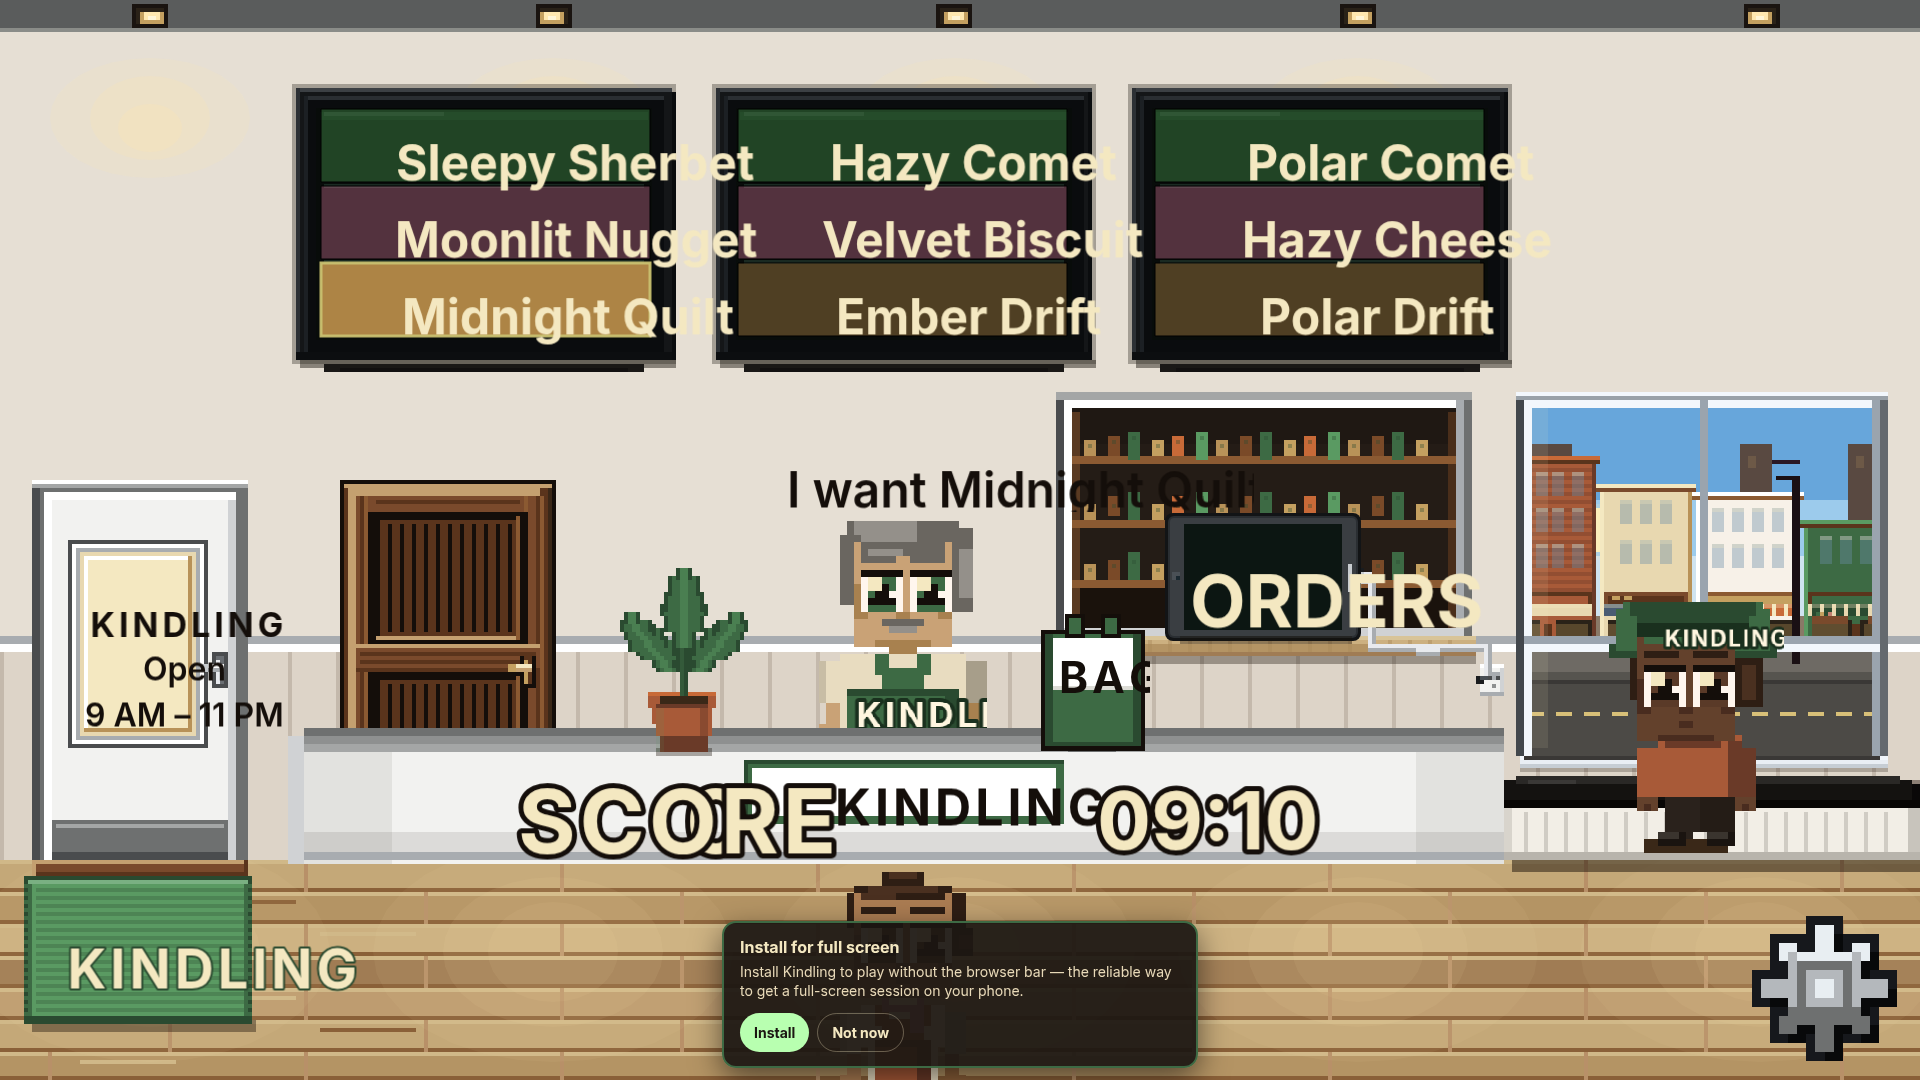
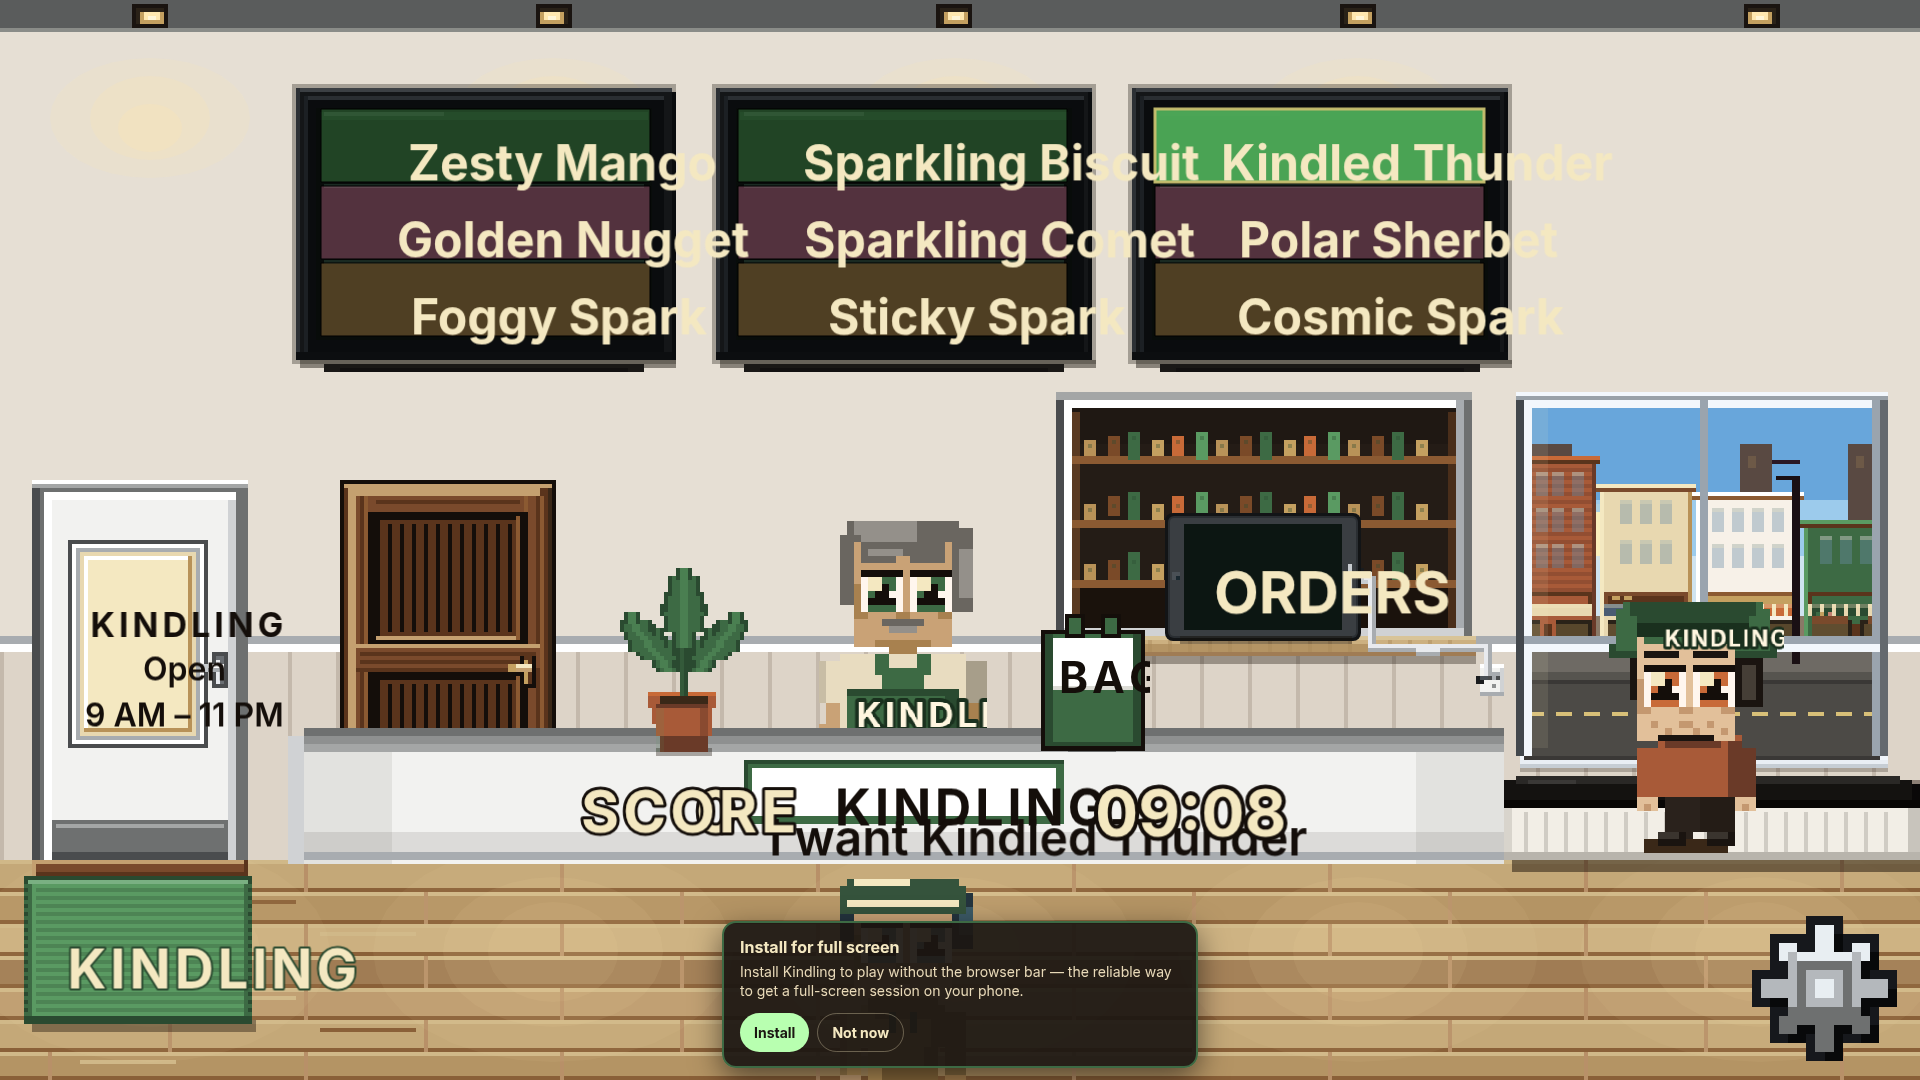
fix(ui): widen shop speech plaques and resize counter readouts
- Raise CUSTOMER_SPEECH_MAX_W to 480 and key-lead speech box to 540
- Add noWrap plus refitType on speech setText so plaques stay single-line
- Shrink HUD_SCORE_PX to 28.8 (ORDERS parity) for cleaner counter scale
- Pin ORDERS on tablet with right/up nudge to clear the BAG rack
- Update layout tests and verification captures

diff --git a/src/scenes/ShopScene.ts b/src/scenes/ShopScene.ts
@@ -88,6 +88,7 @@ import { beginChipFrame, placeChip } from "../ui/hud/placeChips";
 import { chipPriority } from "../ui/hud/slots";
 import { designHudInset, readCssSafeArea } from "../ui/viewFit";
 import { addUiText } from "../ui/text";
+import { refitType } from "../ui/typekit";
 import {
   Color,
   HUD_SCORE_PX,
@@ -117,6 +118,10 @@ const TABLET_LABEL_PX = HUD_SCORE_PX;
  * now the screen minus a hairline that keeps the glyphs off the bezel.
  */
 const TABLET_LABEL_INSET = 4;
+/** Nudge ORDERS right so clamp-fit glyphs clear the BAG rack on the tablet's left. */
+const TABLET_LABEL_X_NUDGE = 10;
+/** Lift slightly within the screen — geometric centre reads low on landscape tablets. */
+const TABLET_LABEL_Y_NUDGE = -3;
 
 /** Concurrent customers the pool covers without mid-frame allocate (4 is typical peak). */
 const CUSTOMER_VISUAL_POOL = 4;
@@ -235,7 +240,7 @@ export class ShopScene extends Phaser.Scene {
 
     const tab = tabletLayout();
     this.tabletScreen = this.add.graphics().setDepth(10);
-    this.tabletLabel = addUiText(this, TABLET.x, tab.screenTop + tab.screenH / 2, "ORDERS", {
+    this.tabletLabel = addUiText(this, 0, 0, "ORDERS", {
       size: typeRolePx("hudTitle"),
       typeRole: "hudTitle",
       color: Color.creamHex,
@@ -251,6 +256,7 @@ export class ShopScene extends Phaser.Scene {
     })
       .setOrigin(0.5)
       .setDepth(11);
+    this.pinTabletLabel(tab);
 
     this.tabletHit = this.add.rectangle(TABLET.x, TABLET.y, TABLET_W, TABLET_H, 0x000000, 0.001).setDepth(12);
     enableItemHit(this.tabletHit);
@@ -289,7 +295,8 @@ export class ShopScene extends Phaser.Scene {
       typeRole: "speech",
       align: "center",
       fontStyle: "600",
-      maxWidth: typeRoleBox(440, "speech"),
+      noWrap: true,
+      maxWidth: typeRoleBox(540, "speech"),
       maxHeight: typeRoleBox(104, "speech"),
     })
       .setOrigin(0.5, 0.5)
@@ -361,7 +368,10 @@ export class ShopScene extends Phaser.Scene {
     this.keyLeadBubble.setVisible(showKeyLeadBubble);
     if (showKeyLeadBubble) {
       const textDirty = this.keyLeadBubble.text !== callout;
-      if (textDirty) this.keyLeadBubble.setText(callout);
+      if (textDirty) {
+        this.keyLeadBubble.setText(callout);
+        refitType(this.keyLeadBubble);
+      }
       syncSignPlaque(this.keyLeadBubble);
       const lead = keyLeadSpeechPlaqueAboveHead(
         this.keyLeadBubble,
@@ -385,7 +395,10 @@ export class ShopScene extends Phaser.Scene {
     this.driverBubble.setVisible(showDriverBubble);
     if (showDriverBubble) {
       const driverTextDirty = this.driverBubble.text !== driverLine;
-      if (driverTextDirty) this.driverBubble.setText(driverLine);
+      if (driverTextDirty) {
+        this.driverBubble.setText(driverLine);
+        refitType(this.driverBubble);
+      }
       this.driverBubble.setAlpha(1);
       syncSignPlaque(this.driverBubble);
       const panelH = signPlaqueExtents(this.driverBubble).panelH;
@@ -634,6 +647,13 @@ export class ShopScene extends Phaser.Scene {
     this.pinQueueBadge(tab);
   }
 
+  /** Centre ORDERS inside the tablet screen with a slight right/up nudge for bag clearance. */
+  private pinTabletLabel(tab: ReturnType<typeof tabletLayout>): void {
+    const x = TABLET.x + TABLET_LABEL_X_NUDGE;
+    const y = tab.screenTop + (tab.screenH - tab.homeH) / 2 + TABLET_LABEL_Y_NUDGE;
+    this.tabletLabel.setPosition(x, y);
+  }
+
   /** Top-right of the ORDERS tablet bezel — re-pin after every sync so plaque layout cannot drift. */
   private pinQueueBadge(tab: ReturnType<typeof tabletLayout>, badgeInset = 6): void {
     syncSignPlaque(this.queueBadge);
@@ -779,6 +799,7 @@ export class ShopScene extends Phaser.Scene {
   /** Boot warm under the loading gate — first walk-in must not raster + plaque on one frame. */
   private warmCustomerSpeech(visual: CustomerVisual): void {
     visual.bubble.setText("Welcome in!");
+    refitType(visual.bubble);
     visual.feedback.setText("Thanks!");
     visual.bubble.setVisible(true);
     visual.feedback.setVisible(true);
@@ -806,6 +827,7 @@ export class ShopScene extends Phaser.Scene {
       typeRole: "speech",
       align: "center",
       fontStyle: "600",
+      noWrap: true,
       maxWidth: CUSTOMER_SPEECH_MAX_W,
       maxHeight: CUSTOMER_SPEECH_H,
     })
@@ -883,7 +905,10 @@ export class ShopScene extends Phaser.Scene {
       if (!customer.bubble) continue;
       let visual = this.customers.get(customer.orderId);
       if (!visual) visual = this.acquireCustomerVisual(customer.orderId, customer.look);
-      if (visual.bubble.text !== customer.bubble) visual.bubble.setText(customer.bubble);
+      if (visual.bubble.text !== customer.bubble) {
+        visual.bubble.setText(customer.bubble);
+        refitType(visual.bubble);
+      }
       syncSignPlaque(visual.bubble);
     }
 
@@ -934,7 +959,10 @@ export class ShopScene extends Phaser.Scene {
       const layout = this.customerLayoutById.get(customer.orderId);
       if (customer.bubble && settled) {
         bubble.setAlpha(1);
-        if (bubble.text !== customer.bubble) bubble.setText(customer.bubble);
+        if (bubble.text !== customer.bubble) {
+          bubble.setText(customer.bubble);
+          refitType(bubble);
+        }
         const pin = layout
           ? { x: layout.x, y: layout.y }
           : speechPlaqueAboveHead(bubble, sprite.x, standingPersonHeadTop(sprite));

diff --git a/src/scenes/shopSpeech.test.ts b/src/scenes/shopSpeech.test.ts
@@ -47,6 +47,9 @@ describe("speech stays off the models it belongs to", () => {
     expect(src, "key-lead bubble centered above head band").toMatch(
       /keyLeadBubble = addSignText[\s\S]*?\.setOrigin\(0\.5, 0\.5\)/,
     );
+    expect(src, "key-lead holding copy stays single-line").toMatch(
+      /keyLeadBubble = addSignText[\s\S]*noWrap: true[\s\S]*typeRoleBox\(540, "speech"\)/,
+    );
     expect(src, "driver bubble centered above head").toMatch(
       /driverBubble = addSignText[\s\S]*?\.setOrigin\(0\.5, 0\.5\)/,
     );
@@ -55,11 +58,11 @@ describe("speech stays off the models it belongs to", () => {
 
   it("dirty-guards key-lead and driver bubble setText and pins only on copy/visibility change", () => {
     const sync = between(src, "private sync(snap: SimSnapshot)", "const packNext", "shop sync");
-    expect(sync, "key-lead text guarded").toMatch(
-      /const textDirty = this\.keyLeadBubble\.text !== callout[\s\S]*if \(textDirty\) this\.keyLeadBubble\.setText\(callout\)/,
+    expect(sync, "key-lead text guarded and refit").toMatch(
+      /const textDirty = this\.keyLeadBubble\.text !== callout[\s\S]*if \(textDirty\)[\s\S]*setText\(callout\)[\s\S]*refitType\(this\.keyLeadBubble\)/,
     );
-    expect(sync, "driver text guarded").toMatch(
-      /const driverTextDirty = this\.driverBubble\.text !== driverLine[\s\S]*if \(driverTextDirty\) this\.driverBubble\.setText\(driverLine\)/,
+    expect(sync, "driver text guarded and refit").toMatch(
+      /const driverTextDirty = this\.driverBubble\.text !== driverLine[\s\S]*if \(driverTextDirty\)[\s\S]*setText\(driverLine\)[\s\S]*refitType\(this\.driverBubble\)/,
     );
     expect(sync, "no unconditional key-lead setText").not.toMatch(/keyLeadBubble[\s\S]*?\.setText\(callout \?\? ""\)/);
     expect(sync, "pin key-lead only when shown").toMatch(/if \(showKeyLeadBubble\)/);
@@ -107,9 +110,12 @@ describe("speech stays off the models it belongs to", () => {
     expect(sync, "layout keyed on order id + quantized x + plaque height").toContain("Math.round(c.x)");
     expect(sync, "layout keyed on order id + quantized x + plaque height").toMatch(/Math\.round\(h\)/);
     expect(sync, "measures plaque before layoutCustomerSpeech").toMatch(/signPlaqueExtents\(visual\.bubble\)/);
-    expect(sync, "bubble setText guarded").toMatch(/if \(bubble\.text !== customer\.bubble\) bubble\.setText/);
+    expect(sync, "bubble setText guarded and refit").toMatch(
+      /if \(bubble\.text !== customer\.bubble\)[\s\S]*bubble\.setText[\s\S]*refitType\(bubble\)/,
+    );
     const make = between(src, "private makeCustomerVisual(", "return { sprite, bubble, feedback", "makeCustomerVisual");
     expect(make, "fixed speech token at build").toMatch(/typeRole: "speech"/);
+    expect(make, "customer order stays single-line").toMatch(/noWrap: true/);
     expect(sync, "look guarded before applyPersonTexture").toMatch(
       /if \(visual\.look !== customer\.look\)[\s\S]*applyPersonTexture\(visual\.sprite, customer\.look\)/,
     );

diff --git a/src/scenes/counterLayout.test.ts b/src/scenes/counterLayout.test.ts
@@ -95,6 +95,8 @@ const POP_LIFT = number(placeReadouts, /scorePopLayer\.setPosition\(signLeft, y 
 const popTween = between(readouts, "spawnScorePop(delta: number, screen?: { x: number; y: number }): void {", "\n  }", "spawnScorePop");
 const POP_RISE = number(popTween, /y: \{ from: 0, to: -(\d+) \}/, "pop rise");
 const ORDERS_INSET = number(shop, /const TABLET_LABEL_INSET = (\d+);/, "TABLET_LABEL_INSET");
+const ORDERS_X_NUDGE = number(shop, /const TABLET_LABEL_X_NUDGE = (\d+);/, "TABLET_LABEL_X_NUDGE");
+const ORDERS_Y_NUDGE = number(shop, /const TABLET_LABEL_Y_NUDGE = (-?\d+);/, "TABLET_LABEL_Y_NUDGE");
 
 const tab = tabletLayout();
 /**
@@ -125,8 +127,8 @@ const scorePop: Rect = {
 };
 const scoreGroup = union([scoreValue, scoreCaption, scorePop]);
 const ordersLabel = centred(
-  TABLET.x,
-  tab.screenTop + tab.screenH / 2,
+  TABLET.x + ORDERS_X_NUDGE,
+  tab.screenTop + (tab.screenH - tab.homeH) / 2 + ORDERS_Y_NUDGE,
   tab.screenW - ORDERS_INSET * 2,
   tab.screenH - ORDERS_INSET * 2,
 );
@@ -242,6 +244,12 @@ describe("ORDERS type size", () => {
     expect(shop).toMatch(/import \{[\s\S]*HUD_SCORE_PX[\s\S]*\} from "\.\.\/ui\/theme"/);
     expect(shop).toContain("const TABLET_LABEL_PX = HUD_SCORE_PX;");
     expect(ordersBlock).toContain('typeRolePx("hudTitle")');
+  });
+
+  it("pins ORDERS inside the tablet screen with a bag-clearance nudge", () => {
+    expect(shop).toContain("private pinTabletLabel(");
+    expect(shop).toContain("TABLET_LABEL_X_NUDGE");
+    expect(shop).toContain("this.pinTabletLabel(tab)");
   });
 
   it("gives the label the whole tablet screen bar a hairline, because the seed will not fit", () => {

diff --git a/src/maps/shopT0.test.ts b/src/maps/shopT0.test.ts
@@ -144,7 +144,7 @@ describe("customer standing slots", () => {
   it("gives an overhead chip the room its horizontal span leaves it", () => {
     expect(customerSpeechWidth(Infinity), "open span").toBe(CUSTOMER_SPEECH_MAX_W);
     expect(customerSpeechWidth(CUSTOMER_SPEECH_MIN_W), "tight span").toBe(CUSTOMER_SPEECH_MIN_W);
-    expect(customerSpeechWidth(400), "cap at max").toBe(CUSTOMER_SPEECH_MAX_W);
+    expect(customerSpeechWidth(500), "cap at max").toBe(CUSTOMER_SPEECH_MAX_W);
   });
 
   it("holds speech back while its owner is still crossing the floor", () => {

diff --git a/src/ui/typeScale.test.ts b/src/ui/typeScale.test.ts
@@ -37,7 +37,7 @@ describe("typeScale tokens", () => {
   it("applies MSG_SCALE to message-tier roles once", () => {
     expect(typeRolePx("hudBody", 1, { coarsePointer: false })).toBe(`${20 * MSG_SCALE}px`);
     expect(typeRolePx("speech", 1, { coarsePointer: false })).toBe(`${Math.round(19.2 * MSG_SCALE * 10000) / 10000}px`);
-    expect(typeRolePx("hudTitle", 1, { coarsePointer: false })).toBe("35.2px");
+    expect(typeRolePx("hudTitle", 1, { coarsePointer: false })).toBe("28.8px");
     expect(typeClockPx(1, { coarsePointer: false })).toBe("32px");
   });
 

diff --git a/src/maps/shopT0.ts b/src/maps/shopT0.ts
@@ -186,7 +186,7 @@ export function customerSlotX(index: number): number {
 /** Daylight left between one chip and the next. */
 export const CUSTOMER_SPEECH_PAD = 8;
 /** Widest a chip draws when the floor is quiet enough to give it the room (~+25%). */
-export const CUSTOMER_SPEECH_MAX_W = 350;
+export const CUSTOMER_SPEECH_MAX_W = 480;
 /** Narrowest side chip when neighbours leave little room (~+25%). */
 export const CUSTOMER_SPEECH_MIN_W = 150;
 

diff --git a/src/ui/theme.type.test.ts b/src/ui/theme.type.test.ts
@@ -106,6 +106,6 @@ describe("mobile text ramp gating", () => {
   it("does not oversize desktop stages", () => {
     const hints = { coarsePointer: false as const, viewportCssWidth: 1920 };
     expect(scaleMsgPx(20, 1, hints)).toBe("25px");
-    expect(scaleChromePx(35.2, 1, hints)).toBe("35.2px");
+    expect(scaleChromePx(28.8, 1, hints)).toBe("28.8px");
   });
 });

diff --git a/src/ui/theme.ts b/src/ui/theme.ts
@@ -65,7 +65,7 @@ export const Color = {
  * {@link scaleChromePx} + `fitTypeToBox` `minCssFloor` / `maxCssCeiling`.
  */
 /** SCORE digits and caption — exported for tablet ORDERS parity. */
-export const HUD_SCORE_PX = 35.2;
+export const HUD_SCORE_PX = 28.8;
 export const HUD_READOUT_PX = 32;
 export const HUD_COG_CAPTION_PX = 18 * 1.25;
 
